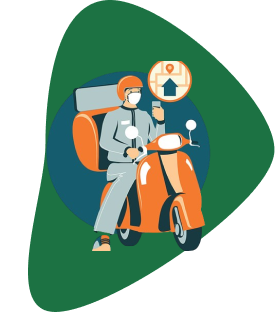
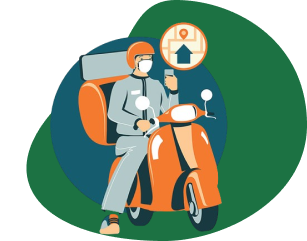
Home Screen finished

diff --git a/src/components/screens/HomeScreen.tsx b/src/components/screens/HomeScreen.tsx
@@ -1,34 +1,40 @@
-import {Button, Image, Text, View} from 'react-native';
+import {Image, Text, View} from 'react-native';
 import React from 'react';
+import tw from 'twrnc';
+import CustomButton from '../atoms/CustomButton';
 
-const HomeScreen = () => {
+const HomeScreen = ({navigation}) => {
   return (
-    <View style={{flex: 1}} className="bg-gray-200 py-12">
-      <Text className="text-center text-8xl font-extrabold font-acme text-green-700">
+    <View style={tw`bg-gray-200 py-12`}>
+      <Text
+        style={tw`text-center text-8xl font-extrabold font-platypi text-green-700`}>
         G
       </Text>
-      <Text className="text-center text-2xl font-bold text-gray-500 tracking-wider">
-        <Text className="text-green-900">Grocery</Text> prime
+      <Text
+        style={tw`text-center text-3xl font-bold text-gray-500 tracking-wider`}>
+        <Text style={tw`text-green-900`}>Grocery</Text> prime
       </Text>
-      <View className="py-8 flex justify-center items-center">
+      <View style={tw`py-16 flex justify-center items-center`}>
         <Image source={require('../../assets/img.png')} />
       </View>
-      <Text className="text-center text-2xl py-2 text-green-700 font-bold">
+      <Text style={tw`text-center text-xl py-2 text-green-700 font-bold`}>
         Swift!
       </Text>
-      <Text className="text-center justify-center text-xl mx-6 font-medium text-gray-700">
+      <Text
+        style={tw`text-center justify-center text-lg mx-6 font-medium text-gray-700`}>
         Our grocery app brings convenience to your doorstep with a wide
         selection of quality items and easy ordering.
       </Text>
-      <View className="flex flex-row py-12 mx-auto">
-        <Button
-          className="px-5 py-2 mx-2 border border-green-700 rounded text-green-700 hover:bg-green-700 hover:text-white text-lg"
-          // onPress={onPressLearnMore}
+      <View style={tw`flex flex-row py-12 mx-auto gap-4`}>
+        <CustomButton
           title="Log In"
+          onPress={() => navigation.navigate('Login')}
+          style={tw`px-12 py-2.5 border text-gray-600 border-green-700 rounded-lg`}
         />
-        <Button
-          // onPress={onPressLearnMosre}
+        <CustomButton
           title="Sign Up"
+          onPress={() => navigation.navigate('SignUp')}
+          style={tw`px-12 py-2.5 border text-gray-200 border-green-700 rounded-lg bg-green-700`}
         />
       </View>
     </View>

diff --git a/index.css b/index.css
@@ -1,6 +1,7 @@
 @import url('https://fonts.googleapis.com/css2?family=Poppins:ital,wght@0,100;0,200;0,300;0,400;0,500;0,600;0,700;0,800;0,900;1,100;1,200;1,300;1,400;1,500;1,600;1,700;1,800;1,900&display=swap');
 @import url('https://fonts.googleapis.com/css2?family=Poppins:ital,wght@0,100;0,200;0,300;0,400;0,500;0,600;0,700;0,800;0,900;1,100;1,200;1,300;1,400;1,500;1,600;1,700;1,800;1,900&family=Roboto:ital,wght@0,100;0,300;0,400;0,500;0,700;0,900;1,100;1,300;1,400;1,500;1,700;1,900&display=swap');
 @import url('https://fonts.googleapis.com/css2?family=Acme&display=swap');
+@import url('https://fonts.googleapis.com/css2?family=Platypi:ital,wght@0,300..800;1,300..800&family=Poppins:ital,wght@0,100;0,200;0,300;0,400;0,500;0,600;0,700;0,800;0,900;1,100;1,200;1,300;1,400;1,500;1,600;1,700;1,800;1,900&display=swap');
 @tailwind base;
 @tailwind components;
 @tailwind utilities;

diff --git a/src/routes/Navigation.tsx b/src/routes/Navigation.tsx
@@ -3,6 +3,7 @@ import {NavigationContainer} from '@react-navigation/native';
 import {createNativeStackNavigator} from '@react-navigation/native-stack';
 import HomeScreen from '../components/screens/HomeScreen';
 import LoginScreen from '../components/screens/LoginScreen';
+import SignUpScreen from '../components/screens/SignUpScreen';
 
 const Stack = createNativeStackNavigator();
 
@@ -16,6 +17,7 @@ const Navigation = () => {
           options={{headerShown: false}}
         />
         <Stack.Screen name="Login" component={LoginScreen} />
+        <Stack.Screen name="SignUp" component={SignUpScreen} />
       </Stack.Navigator>
     </NavigationContainer>
   );

diff --git a/src/components/atoms/CustomButton.tsx b/src/components/atoms/CustomButton.tsx
@@ -1,0 +1,18 @@
+import {Text, TouchableOpacity} from 'react-native';
+import tw from 'twrnc';
+
+type CustomButtonProps = {
+  title: string;
+  onPress: () => void;
+  style?: object;
+};
+
+const CustomButton: React.FC<CustomButtonProps> = ({title, onPress, style}) => {
+  return (
+    <TouchableOpacity onPress={onPress} style={style}>
+      <Text style={tw`text-center text-lg font-bold`}>{title}</Text>
+    </TouchableOpacity>
+  );
+};
+
+export default CustomButton;

diff --git a/tailwind.config.js b/tailwind.config.js
@@ -11,8 +11,10 @@ module.exports = {
         poppins: '"Poppins", sans-serif',
         roboto: '"Roboto", sans-serif',
         acme: '"Acme", sans-serif',
+        platypi: '"Platypi", serif',
       },
     },
   },
+
   plugins: [],
 };
